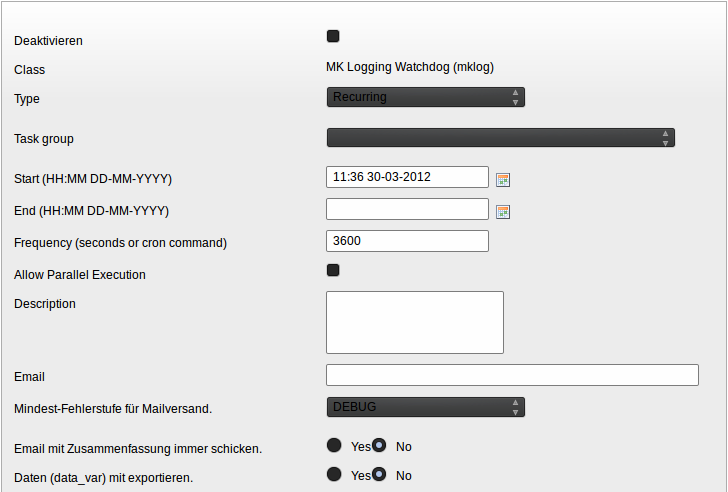
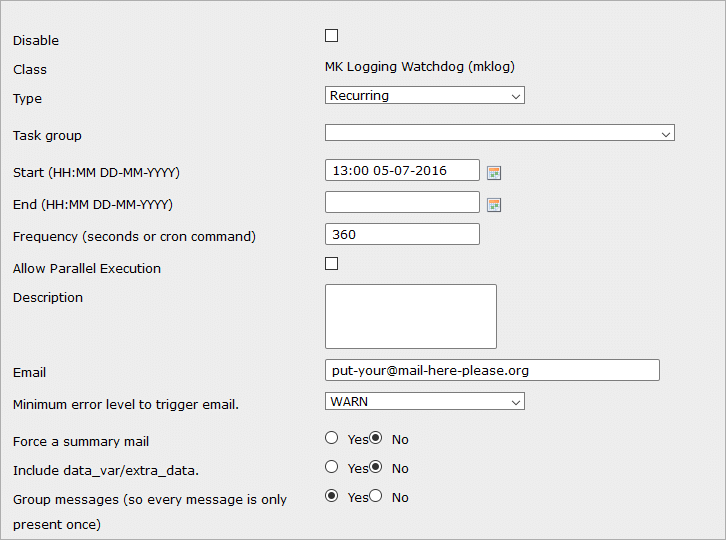
AC#179-3464 evlog docu added

diff --git a/README.md b/README.md
@@ -1,7 +1,8 @@
 mklog
 =======
 
-This extensions offers a scheduler task, the watch dog, which aggregates devlog entries and sends them via mail. So it is possible to send a mail with fatal errors the minute they occur but warnings only every 6 hours. Or send a mail with infos from an import every night.
+This extension offers a [developer log](Documentation/UsersManual/Devlog/Index.md). 
+Ther is a scheduler task too, the watch dog, which aggregates devlog entries and sends them via mail. So it is possible to send a mail with fatal errors the minute they occur but warnings only every 6 hours. Or send a mail with infos from an import every night.
 
 Of course the devlog has to be used by the core and extensions. To have exceptions and errors logged to the devlog the error handling of mktools can be used.
 

diff --git a/Documentation/UsersManual/Index.md b/Documentation/UsersManual/Index.md
@@ -1,12 +1,8 @@
-Users manual
-============
+MK Log
+======
 
-![](../Images/SchedulerTask.png)
+UsersManual
+-----------
 
-You have to provide an email address which receives the mails.
-
-Furthermore you can choose from which severity on devlog entries should be sent. If you set it to WARN, all entries with the serverity of WARN and ERROR will be sent via mail.
-
-Note, you will only get entries which are new since the last run. If nothing new no mail will be sent. Except if you force a summary mail.
-
-It is even possible to include the data\_var/extra\_data field of a devlog entry into the mail.
+* [DevLog](Devlog/Index.md)
+* [Scheduler](Scheduler/Index.md)

diff --git a/Documentation/UsersManual/Scheduler/Index.md b/Documentation/UsersManual/Scheduler/Index.md
@@ -1,0 +1,17 @@
+MK Log
+======
+
+Scheduler
+-----------
+
+### tx_devlog Scheduler
+
+![](../../Images/SchedulerTask.png)
+
+You have to provide an email address which receives the mails.
+
+Furthermore you can choose from which severity on devlog entries should be sent. If you set it to WARN, all entries with the serverity of WARN and ERROR will be sent via mail.
+
+Note, you will only get entries which are new since the last run. If nothing new no mail will be sent. Except if you force a summary mail.
+
+It is even possible to include the data\_var/extra\_data field of a devlog entry into the mail.

diff --git a/Documentation/UsersManual/Devlog/Index.md b/Documentation/UsersManual/Devlog/Index.md
@@ -1,0 +1,16 @@
+MK Log
+======
+
+DevLog
+------
+
+### Usage
+
+Simply call the `GeneralUtility::devLog` or the old `t3lib_div::devLog` method 
+to log data to the DevLog-Module.  
+We recommend to use `tx_rnbase_util_Logger::devLog` as warpper.
+
+In the Module *MK Log* at the Web-View you can view and filter these logs and its content.
+
+
+![](../../Images/DevLogEntryBeModule.png)
